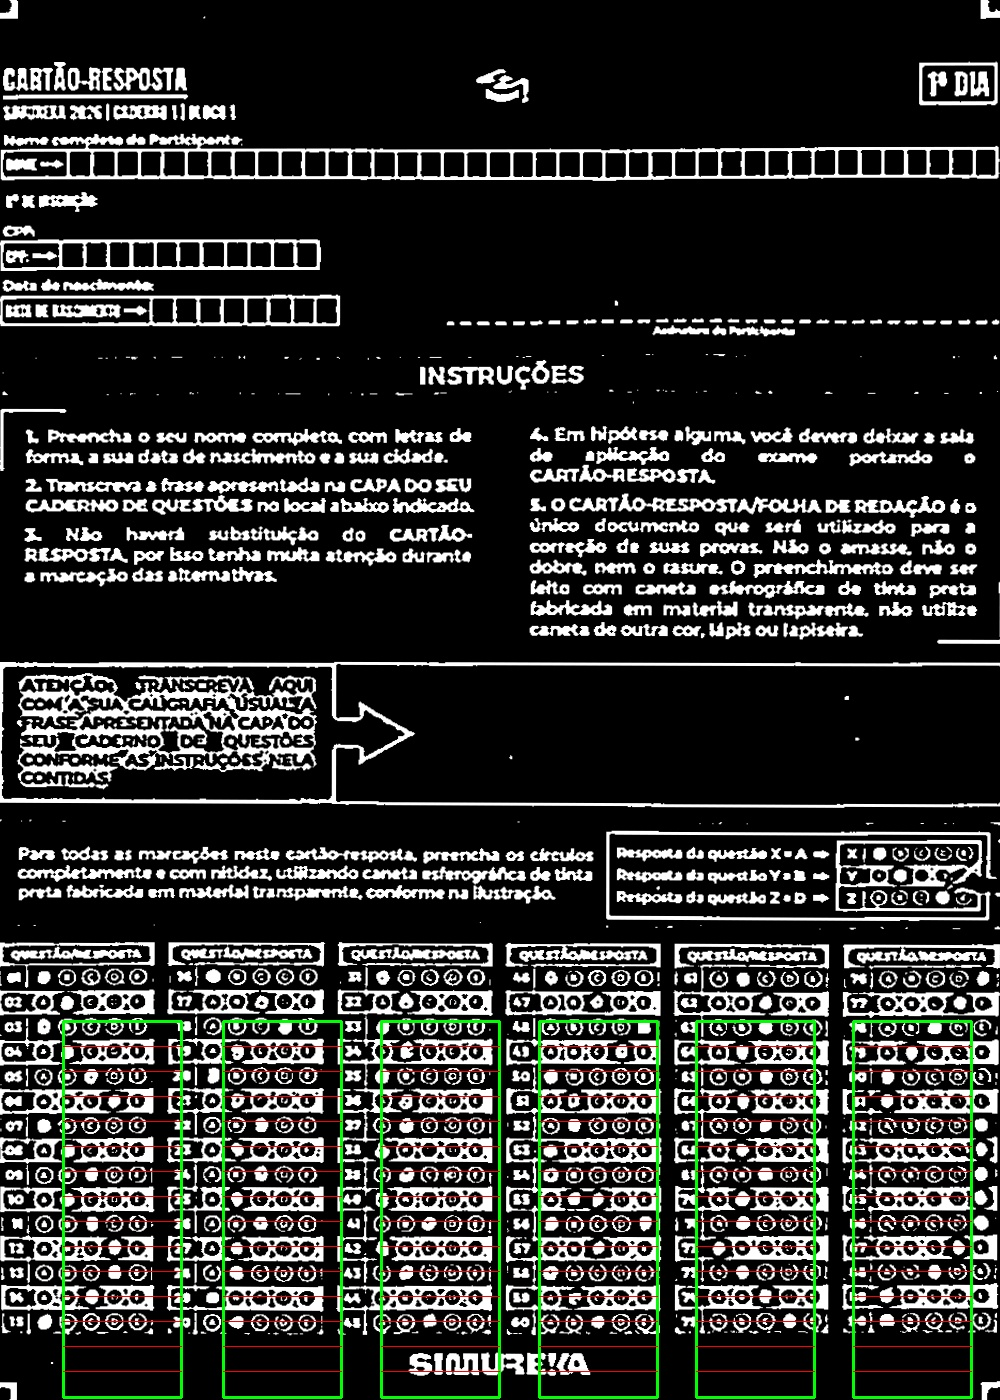
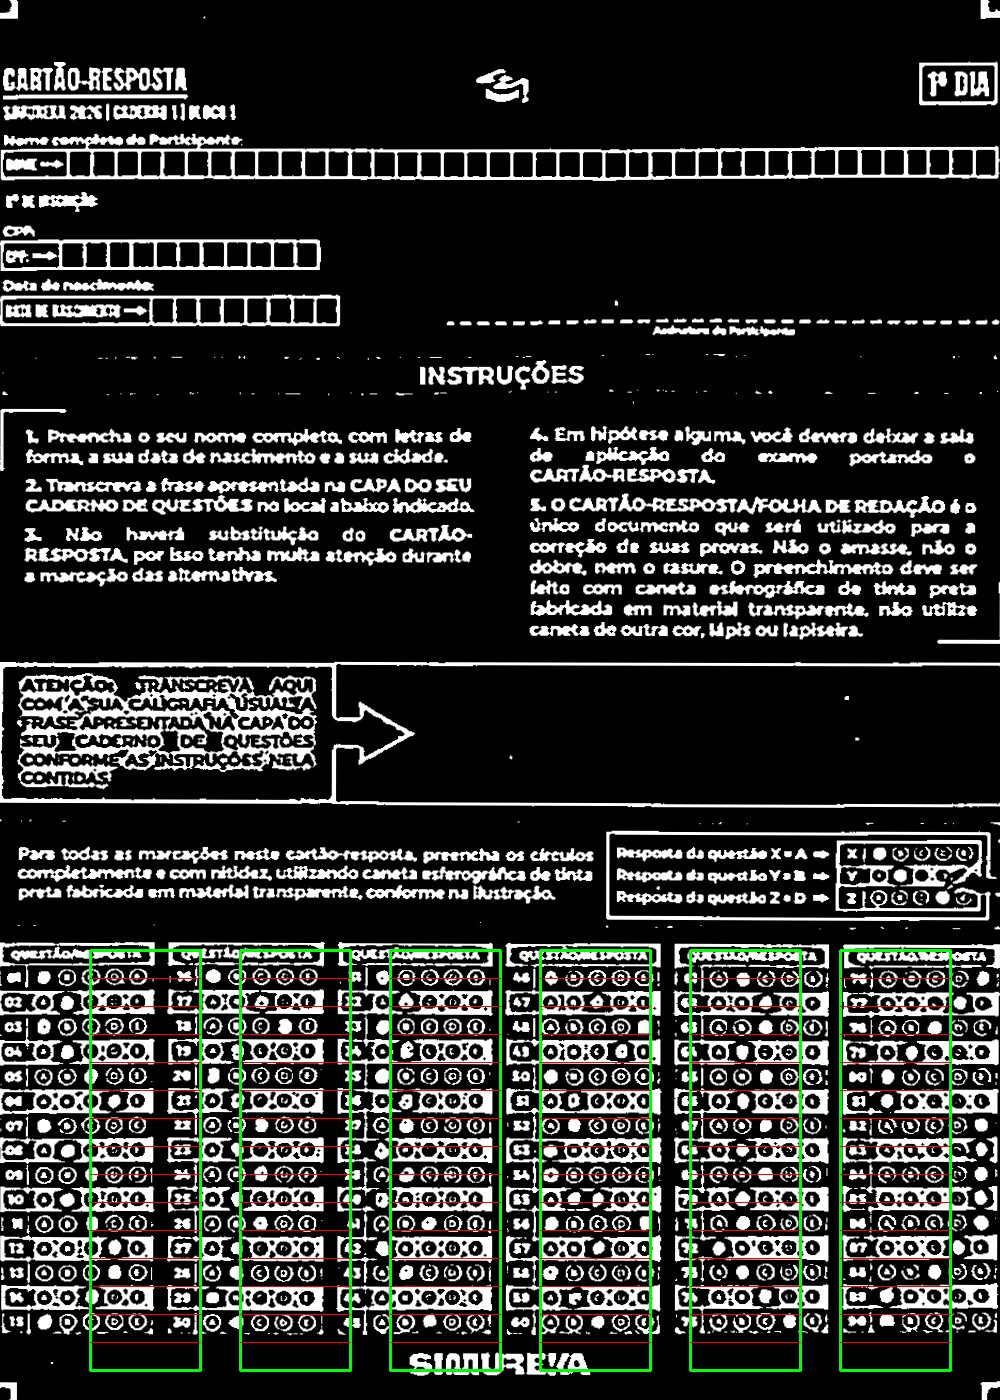
refactor: remove hardcoded question block mapping function and update related image.

Changed region(s): [[0.062, 0.6757, 0.992, 1.0]]

diff --git a/loader.py b/loader.py
@@ -238,22 +238,6 @@ def ler_alternativa_marcada(imagem_linha_questao):
     return alternativas[indice_maior]
 
 
-def mapear_blocos_questoes():
-    # Valores médios cravados baseados nas suas medições
-    y_inicio = 1021
-    altura_bloco = 376
-    largura_bloco = 118
-    
-    # Lista com os X corretos (corrigi o bloco 4 para 539 matematicamente)
-    x_colunas = [63, 223, 381, 539, 696, 853] 
-    
-    blocos = {}
-    for i, x in enumerate(x_colunas):
-        numero_bloco = i + 1
-        blocos[numero_bloco] = (x, y_inicio, largura_bloco, altura_bloco)
-        
-    return blocos
-
 def extrair_respostas_do_bloco(imagem_padronizada, x, y, w, h, questao_inicial):
     """
     Recorta um bloco de 15 questões e fatia linha por linha para ler as respostas.
